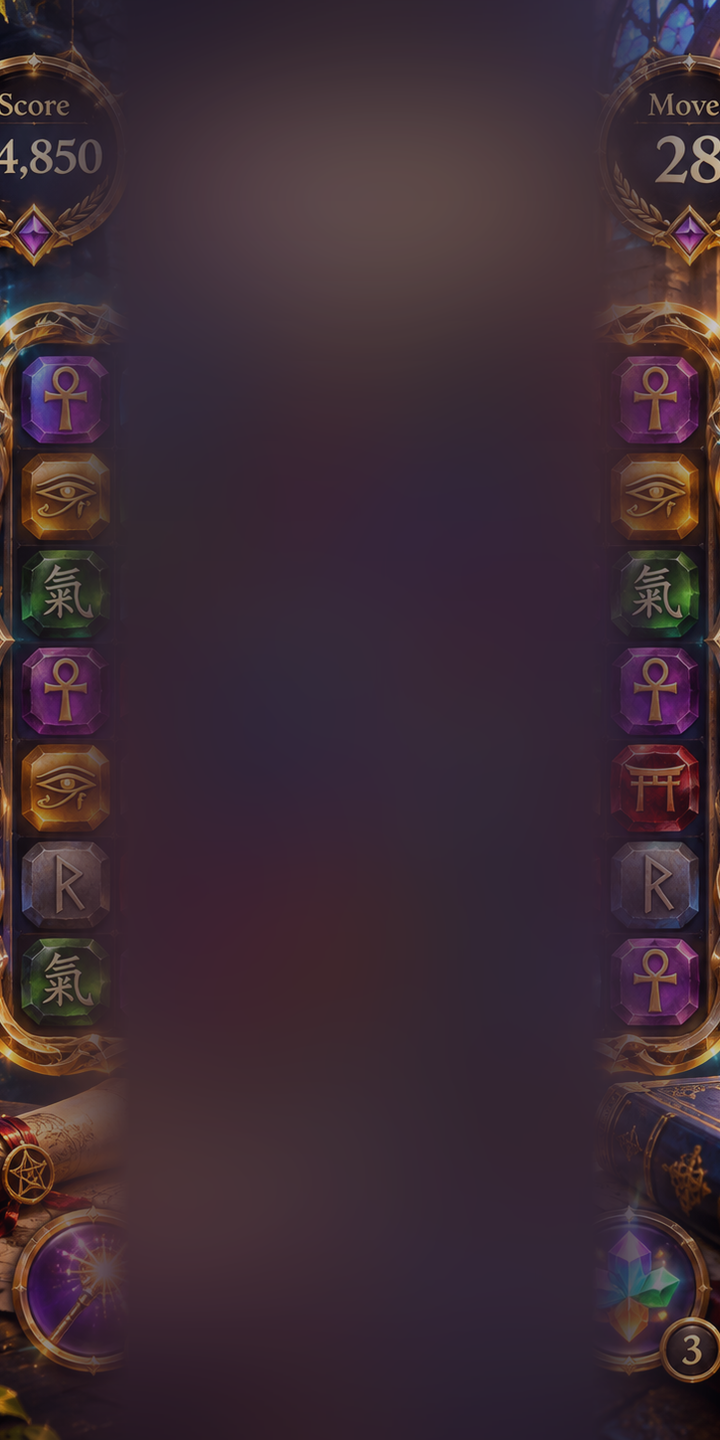
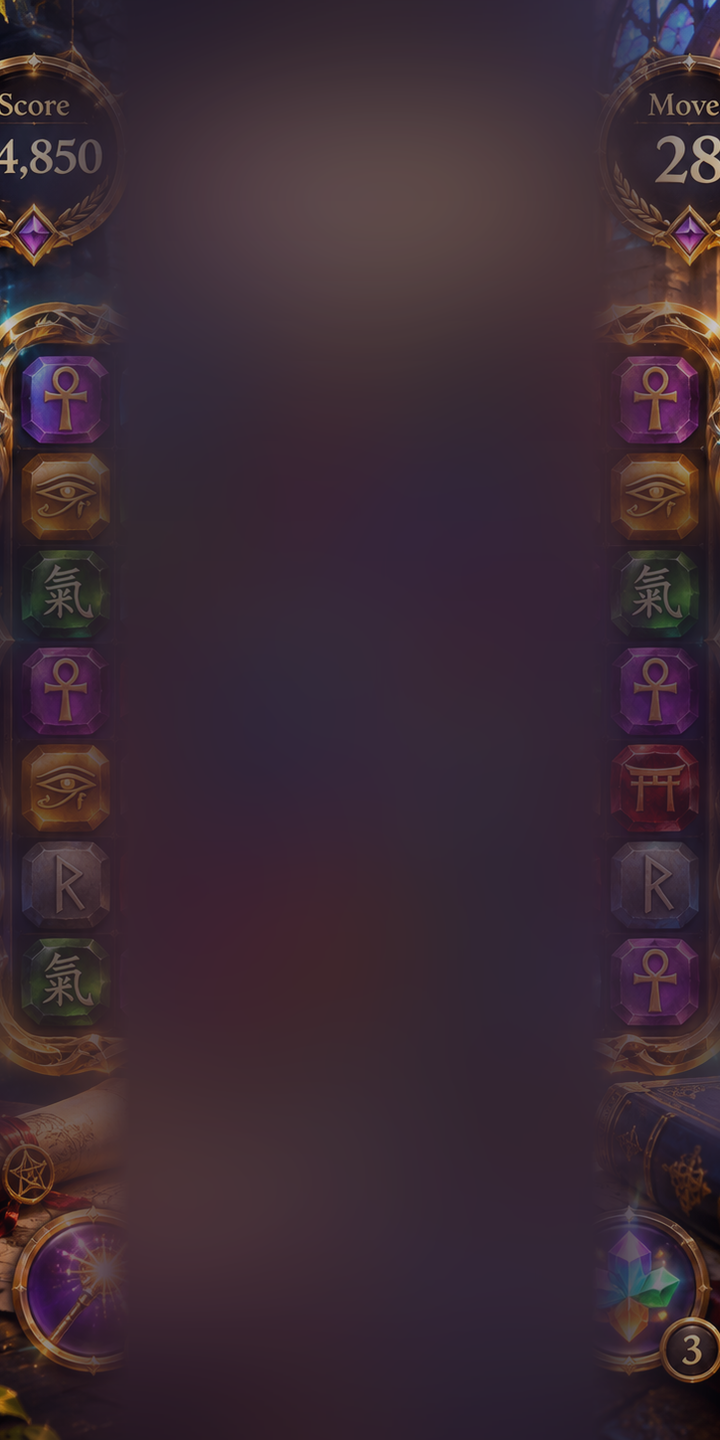
Remove baked concept labels and ghost tiles from live backgrounds

Changed region(s): [[0.9167, 0.3125, 1.0, 0.8125], [0.0, 0.3438, 0.0917, 0.8125]]

diff --git a/tools/clean_backgrounds_v03.py b/tools/clean_backgrounds_v03.py
@@ -1,0 +1,28 @@
+#!/usr/bin/env python3
+"""Darken baked labels and old mockup tiles that appeared in the concept-image side margins."""
+from PIL import Image, ImageFilter
+from pathlib import Path
+root=Path(__file__).resolve().parents[1]/'assets'/'v03'
+
+def scrub(name, top, bottom, margin, dark=0.78):
+    path=root/name
+    base=Image.open(path).convert('RGBA')
+    blur=base.filter(ImageFilter.GaussianBlur(18))
+    pix=base.load();src=blur.load()
+    for y in range(top,min(bottom,base.height)):
+        yf=min(1.0,(y-top)/48.0,(bottom-y)/48.0)
+        for x in range(base.width):
+            edge=max(0.0, (margin-x)/margin, (x-(base.width-margin))/margin)
+            t=max(0,min(1,edge*yf))*dark
+            if t <= 0:continue
+            r,g,b,a=pix[x,y]
+            rr,gg,bb,_=src[x,y]
+            # Recreate stone/library depth without leaving legible baked mockup labels.
+            pix[x,y]=(int((1-t)*r+t*(rr*.48+22*.52)),int((1-t)*g+t*(gg*.48+17*.52)),int((1-t)*b+t*(bb*.48+42*.52)),a)
+    base.save(path,optimize=True)
+    print('cleaned',name,path.stat().st_size)
+
+if __name__ == '__main__':
+    scrub('menu_scene.png',765,1350,135,.80)
+    for n in ['runes_scene.png','egypt_scene.png','asia_scene.png','mixed_scene.png']:
+        scrub(n,455,1200,100,.86)
